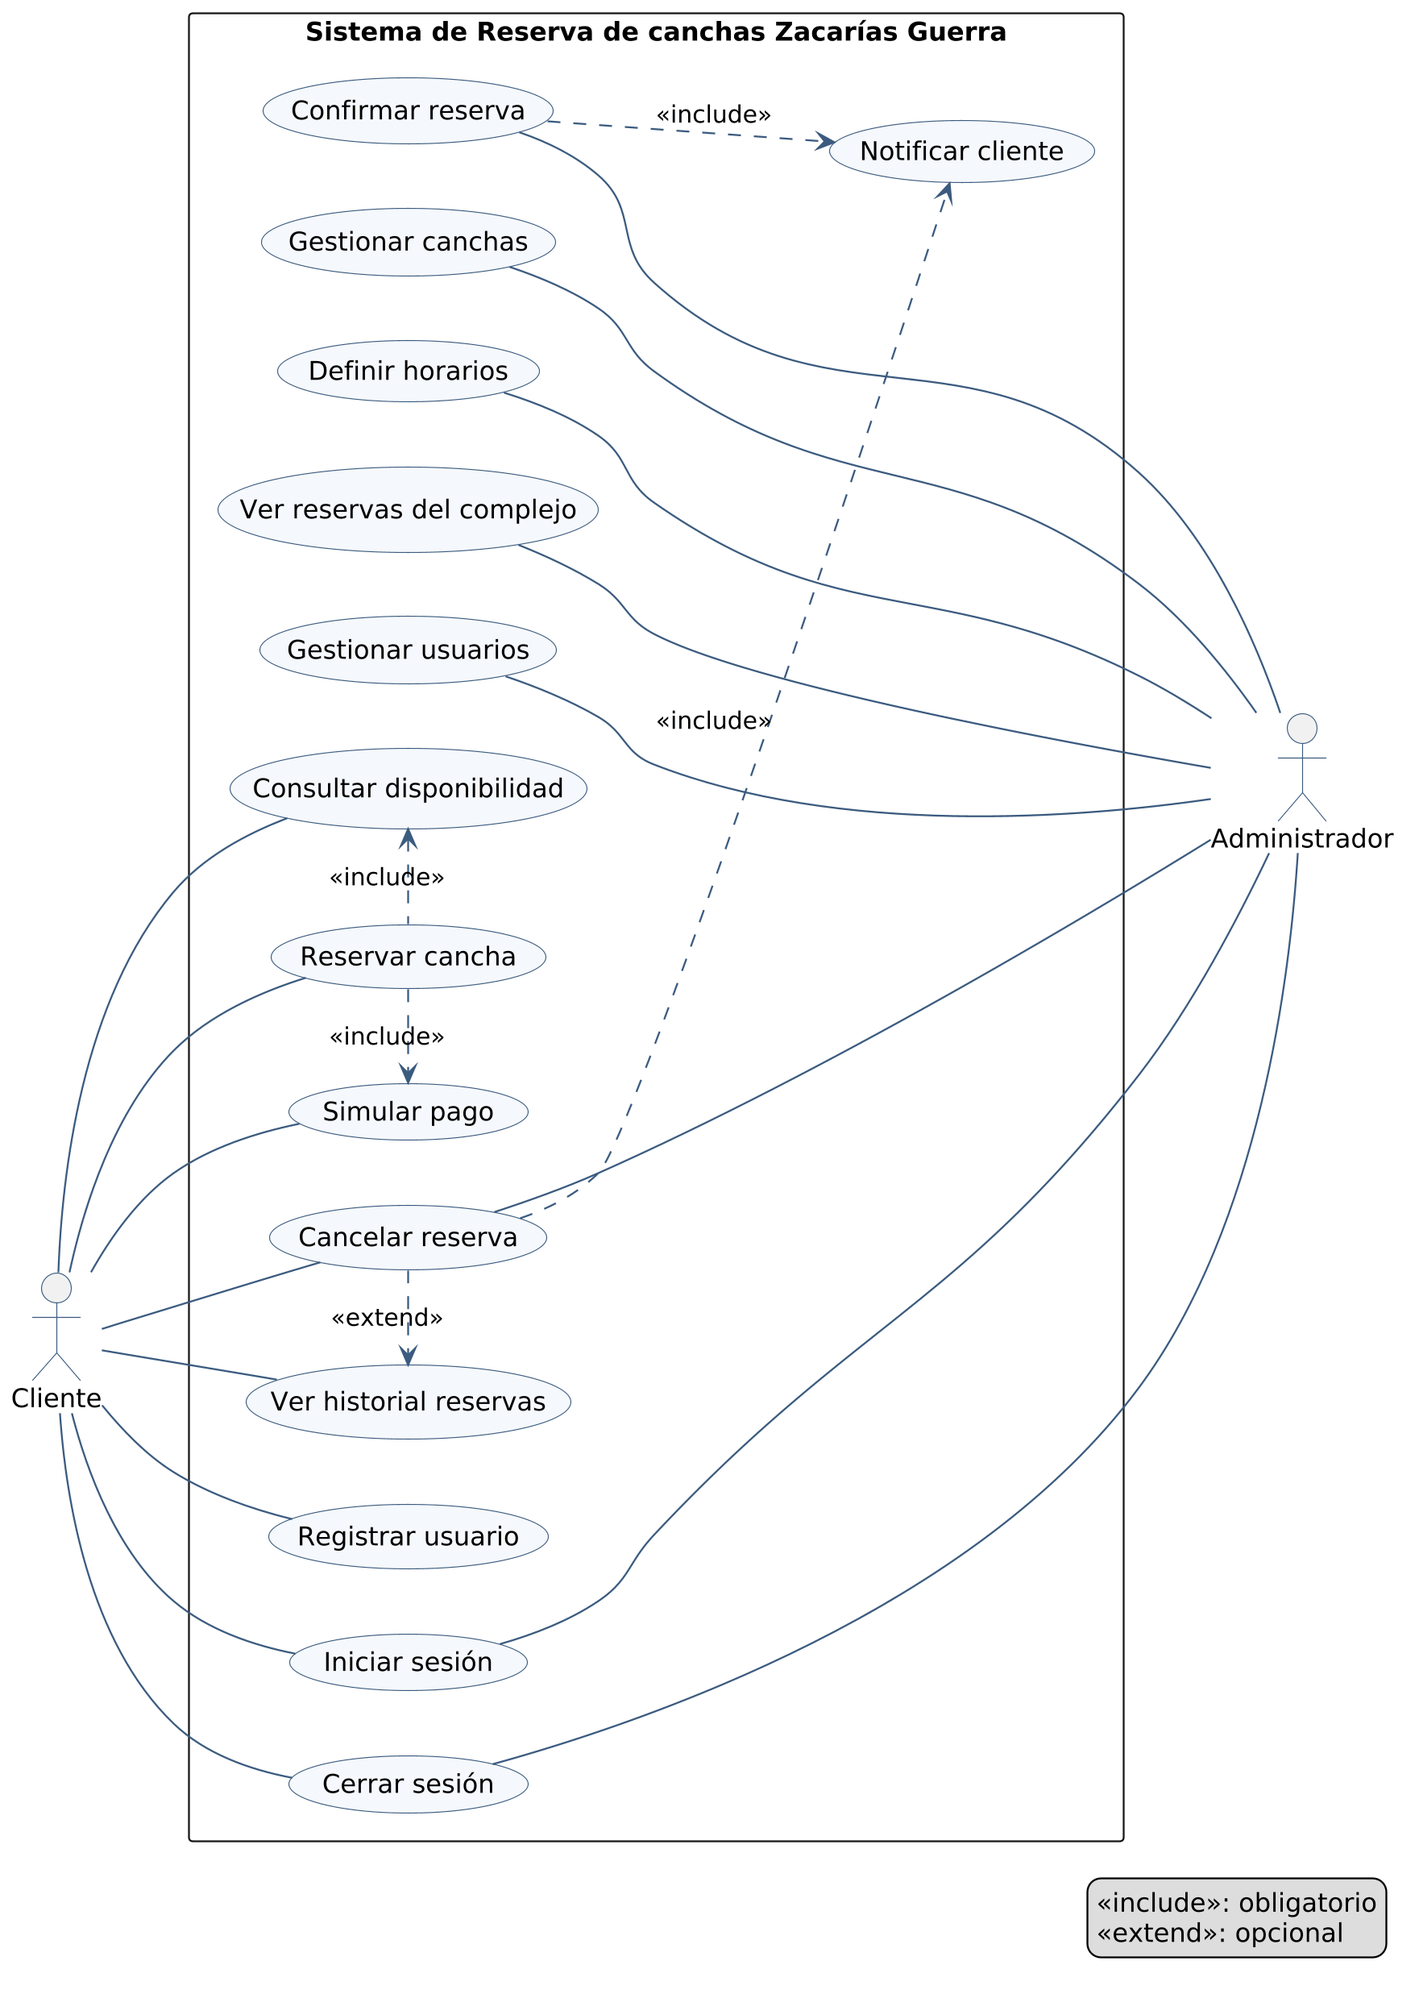
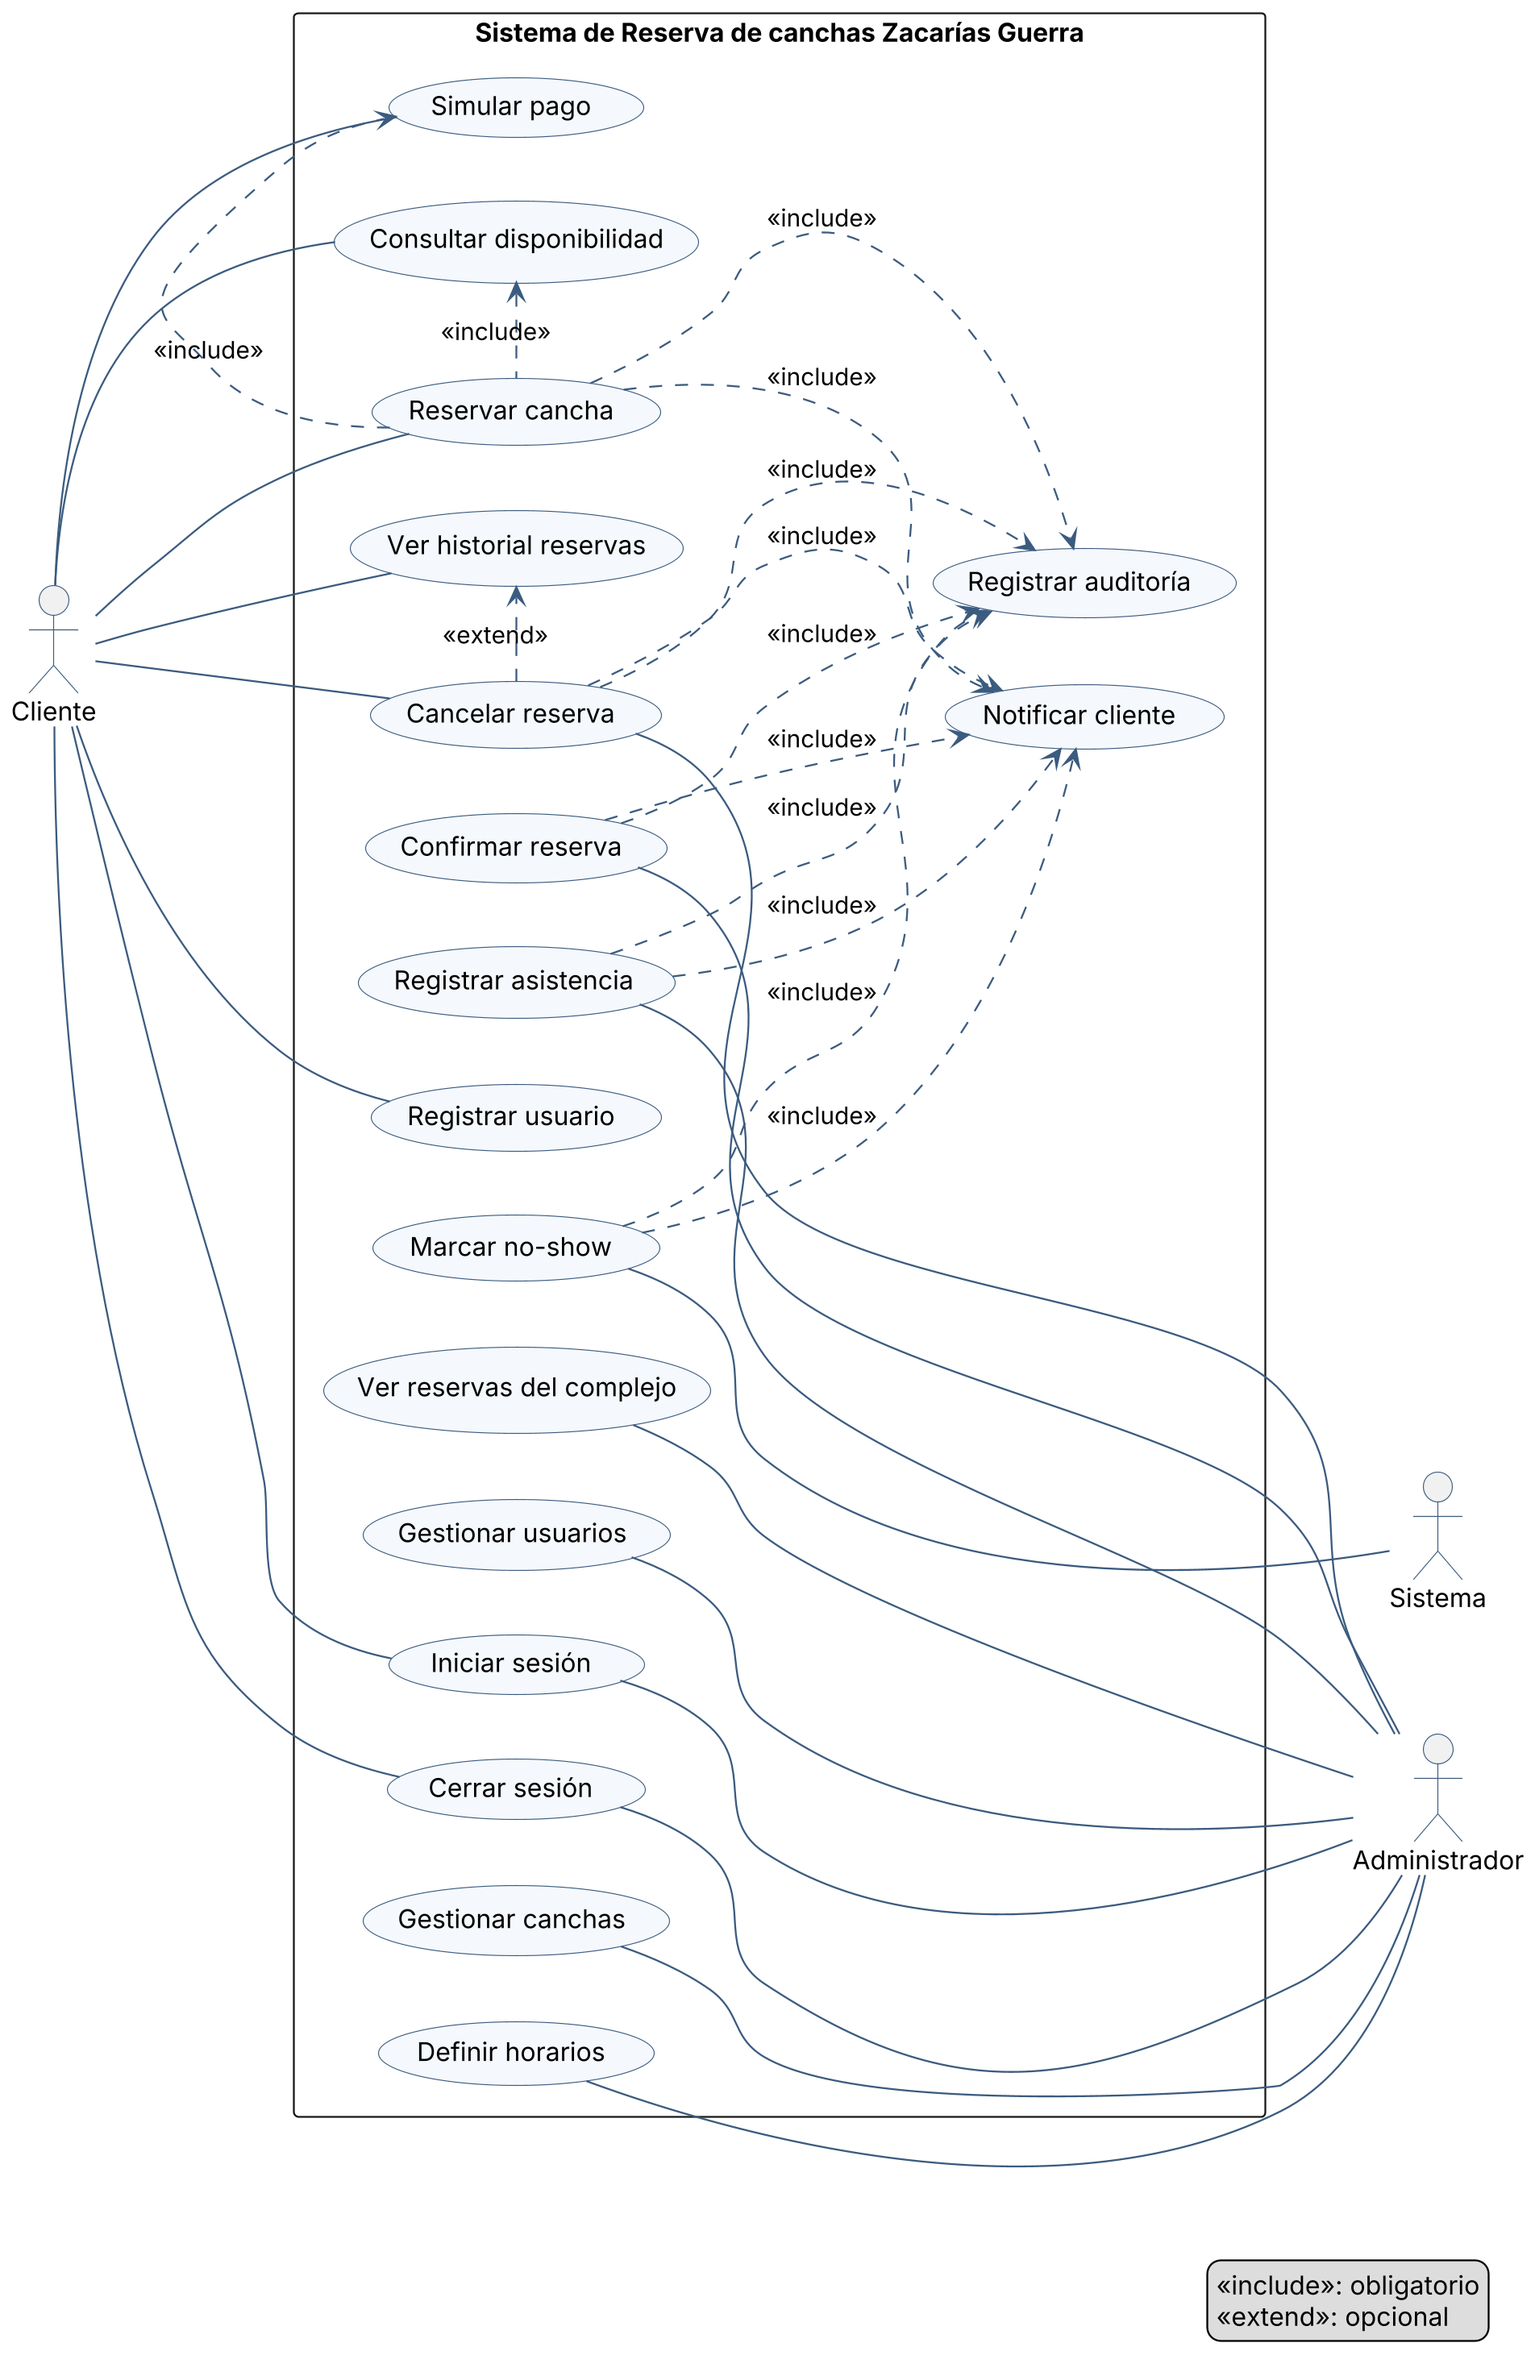
docs(modelos): aplicar las ampliaciones 1 a 4 al diagrama general de casos de uso

diff --git a/docs/trazabilidad.md b/docs/trazabilidad.md
@@ -140,7 +140,7 @@ Las rutas de archivo son relativas a la raíz del repositorio. Los endpoints se 
 | CU-GEN-09.b | Cancelar reserva: pantalla del administrador | E1 Cap. I | Ver RF11.d | cumplido | |
 | CU-GEN-10.a | Confirmar reserva (API) | E1 Cap. I | `PATCH /api/reservas/:id/confirmar`; PR #57 (ver RF11.a) | cumplido | |
 | CU-GEN-10.b | Confirmar reserva (pantalla) | E1 Cap. I | Ver RF11.c | cumplido | |
-| CU-GEN-11.a | Notificar cliente: al crear | E1 Cap. I | Ver RF12.a | cumplido | En el diagrama lo incluyen Cancelar y Confirmar |
+| CU-GEN-11.a | Notificar cliente: al crear | E1 Cap. I | Ver RF12.a | cumplido | En el diagrama lo incluyen Reservar, Confirmar, Cancelar, Registrar asistencia y Marcar no-show |
 | CU-GEN-11.b | Notificar cliente: al confirmar | E1 Cap. I | Ver RF12.b | cumplido | |
 | CU-GEN-11.c | Notificar cliente: al cancelar, y su pantalla | E1 Cap. I | Ver RF12.d y RF12.c | cumplido | |
 | CU-GEN-12.a | Gestionar canchas: registrar, editar y alta | E1 Cap. I | Ver RF08.a | cumplido | |
@@ -203,7 +203,7 @@ La columna "Corrección" remite a la sección 4: 4.1 son correcciones y 4.2 son 
 
 | ID | Compromiso | Fuente | Dónde se cumple (evidencia) | Estado | Corrección | Justificación / nota |
 | --- | --- | --- | --- | --- | --- | --- |
-| MOD-CU-GEN | Diagrama general de casos de uso | E1 Cap. I | `docs/modelos/casos-de-uso.md` (sección 1), `casos-de-uso.puml` e `img/casos-de-uso.png` | cumplido | 4.1 y 4.2 | Con las correcciones de 4.1. Las ampliaciones de 4.2 no se aplican (#35, comentario del 11/11) |
+| MOD-CU-GEN | Diagrama general de casos de uso | E1 Cap. I | `docs/modelos/casos-de-uso.md` (sección 1), `casos-de-uso.puml` e `img/casos-de-uso.png` | cumplido | 4.1 y 4.2 | Con las correcciones de 4.1 y las ampliaciones 1 a 4 de 4.2 (#35, comentario del 12/11) |
 | MOD-CU-01 | Ficha y diagrama de CU-01 | E1 Cap. I | `docs/modelos/casos-de-uso.md` (sección 2, con la ficha), `cu-01-reservar-cancha.puml` e `img/cu-01-reservar-cancha.png` | cumplido | 4.1 | |
 | MOD-CU-02 | Ficha y diagrama de CU-02 | E1 Cap. I | `docs/modelos/casos-de-uso.md` (sección 3), `cu-02-cancelar-reserva.puml` e `img/cu-02-cancelar-reserva.png` | cumplido | 4.1 | La ficha no cambia |
 | MOD-CON.a | Contenido: Usuario abstracto con Cliente y Administrador como subclases | E1 Cap. I | Tabla única `Usuario` con `Rol` (`CK_Usuario_Rol`) y `Telefono`; PR #30 | modificado | 4.1 | Herencia en una sola tabla (Guía §1, Usuarios). `Administrador.cargo` no figura en el esquema acordado (contrato técnico, Esquema) |
@@ -311,7 +311,7 @@ La columna "Corrección" remite a la sección 4: 4.1 son correcciones y 4.2 son 
 
 ## 4. Modelos: qué hay que corregir
 
-Las correcciones de 4.1 están aplicadas en `docs/modelos/`: la columna "Resuelta en" indica el archivo de cada una. Las ampliaciones de 4.2 no se aplican.
+Las correcciones de 4.1 están aplicadas en `docs/modelos/`: la columna "Resuelta en" indica el archivo de cada una. De las ampliaciones de 4.2 se aplican la 1 a la 4.
 
 ### 4.1 Correcciones
 
@@ -336,16 +336,16 @@ En estos puntos el diagrama contradice lo implementado o lo decidido.
 
 ### 4.2 Ampliaciones
 
-Agregan elementos que el modelo no tenía. No se aplican, por decisión del responsable del 11/11 (#35): el alcance de #49 se limita a las correcciones de 4.1. Esa decisión deja sin efecto la aprobación de las ampliaciones 1 a 5 del 06/11. La tabla queda como registro.
+Agregan elementos que el modelo no tenía. El 06/11 se aprobaron la 1 a la 5 y la 6 quedó fuera. El 11/11 se descartaron todas para limitar #49 a las correcciones de 4.1, y el 12/11 se volvieron a incluir la 1 a la 4, porque sin ellas el diagrama general no muestra el registro de asistencia ni el no-show, que el sistema implementa (#35, comentario del 12/11).
 
-| Modelo | Ampliación | Motivo |
-| --- | --- | --- |
-| Casos de uso general | Agregar Registrar asistencia (Administrador) | Estado `COMPLETADA` (Guía §1); #17 |
-| Casos de uso general | Agregar el no-show automático (Sistema) | CU-02 A1; Guía §1 (No-show); #17 |
-| Casos de uso general | Agregar Registrar auditoría, incluido por Cancelar reserva y los demás cambios de estado | Ficha de CU-02; RF13 |
-| Casos de uso general | Agregar Notificar cliente como inclusión de Reservar cancha | PR #53 notifica al crear; RF12 |
-| Procesos: estructura | Agregar las clases de proceso de confirmar, registrar asistencia y no-show | #17; tabla de transiciones de `reglas.js` |
-| Procesos: flujo de reservar | Indicar que pago, auditoría y notificación ocurren en una sola transacción | DES-21 y DES-22. Opcional |
+| Modelo | Ampliación | Motivo | Resuelta en |
+| --- | --- | --- | --- |
+| Casos de uso general | Agregar Registrar asistencia (Administrador) | Estado `COMPLETADA` (Guía §1); #17 | `docs/modelos/casos-de-uso.md`, sección 1 |
+| Casos de uso general | Agregar el no-show automático (Sistema) | CU-02 A1; Guía §1 (No-show); #17 | `docs/modelos/casos-de-uso.md`, sección 1: Marcar no-show, con el actor Sistema |
+| Casos de uso general | Agregar Registrar auditoría, incluido por Cancelar reserva y los demás cambios de estado | Ficha de CU-02; RF13 | `docs/modelos/casos-de-uso.md`, sección 1 |
+| Casos de uso general | Agregar Notificar cliente como inclusión de Reservar cancha | PR #53 notifica al crear; RF12 | `docs/modelos/casos-de-uso.md`, sección 1 |
+| Procesos: estructura | Agregar las clases de proceso de confirmar, registrar asistencia y no-show | #17; tabla de transiciones de `reglas.js` | No se aplica: `docs/modelos/` no tiene un diagrama de estructura de procesos. Las tres transiciones están en `docs/modelos/estados-reserva.md` |
+| Procesos: flujo de reservar | Indicar que pago, auditoría y notificación ocurren en una sola transacción | DES-21 y DES-22. Opcional | No se aplica (decisión del 06/11) |
 
 ## 5. Compromisos sin issue (huecos del plan)
 

diff --git a/docs/modelos/casos-de-uso.md b/docs/modelos/casos-de-uso.md
@@ -1,6 +1,6 @@
 # Modelo de casos de uso
 
-Diagrama general de casos de uso, ficha y diagrama de CU-01 y diagrama de CU-02, corregidos. Reemplazan a los del Entregable 1 (E1 Cap. I, Modelo de Casos de Uso) y aplican las correcciones de casos de uso de la sección 4.1 de `docs/trazabilidad.md` (filas MOD-CU-GEN, MOD-CU-01 y MOD-CU-02). Responde al issue #49.
+Diagrama general de casos de uso, ficha y diagrama de CU-01 y diagrama de CU-02, corregidos. Reemplazan a los del Entregable 1 (E1 Cap. I, Modelo de Casos de Uso) y aplican las correcciones de casos de uso de la sección 4.1 de `docs/trazabilidad.md` (filas MOD-CU-GEN, MOD-CU-01 y MOD-CU-02), y las ampliaciones 1 a 4 de la sección 4.2 en el diagrama general. Responde al issue #49.
 
 Lo que no figura en las tablas de cambios se dibuja igual que en el Entregable 1.
 
@@ -10,9 +10,10 @@ Lo que no figura en las tablas de cambios se dibuja igual que en el Entregable 1
 
 Fuente PlantUML: [`casos-de-uso.puml`](casos-de-uso.puml).
 
-- **Actores:** Cliente y Administrador.
-- **Casos de uso (14):** Consultar disponibilidad, Reservar cancha, Simular pago, Ver historial reservas, Registrar usuario, Cancelar reserva, Confirmar reserva, Gestionar canchas, Definir horarios, Ver reservas del complejo, Iniciar sesión, Cerrar sesión, Gestionar usuarios y Notificar cliente. Son las filas CU-GEN-01 a CU-GEN-14 de la matriz.
-- **Relaciones:** Reservar cancha «include» Consultar disponibilidad y Simular pago; Cancelar reserva «extend» Ver historial reservas; Cancelar reserva y Confirmar reserva «include» Notificar cliente. «include» es obligatorio y «extend» es opcional.
+- **Actores:** Cliente, Administrador y Sistema. Sistema es el actor del no-show automático: nadie lo ejecuta, el sistema marca las reservas vencidas.
+- **Casos de uso (17):** los 14 del Entregable 1 (Consultar disponibilidad, Reservar cancha, Simular pago, Ver historial reservas, Registrar usuario, Cancelar reserva, Confirmar reserva, Gestionar canchas, Definir horarios, Ver reservas del complejo, Iniciar sesión, Cerrar sesión, Gestionar usuarios y Notificar cliente), que son las filas CU-GEN-01 a CU-GEN-14 de la matriz, más Registrar asistencia, Marcar no-show y Registrar auditoría (ampliaciones de 4.2).
+- **Relaciones:** Reservar cancha «include» Consultar disponibilidad y Simular pago; Cancelar reserva «extend» Ver historial reservas. Reservar cancha, Confirmar reserva, Cancelar reserva, Registrar asistencia y Marcar no-show «include» Notificar cliente y Registrar auditoría. «include» es obligatorio y «extend» es opcional.
+- **Auditoría de la gestión:** Gestionar canchas, Definir horarios y Gestionar usuarios también registran auditoría (RF13). No se dibuja esa inclusión para no recargar el diagrama.
 
 ### Cambios respecto del Entregable 1
 
@@ -20,6 +21,10 @@ Fuente PlantUML: [`casos-de-uso.puml`](casos-de-uso.puml).
 | --- | --- | --- |
 | Simular pago pasa de «extend» a «include» de Reservar cancha | CU-GEN-03 | Reservar cancha «include» Simular pago: el pago es obligatorio e inmediato |
 | Quitar la asociación de Registrar usuario con el Administrador | CU-GEN-07.a | Registrar usuario solo se asocia con el Cliente: el registro público crea solo clientes |
+| Ampliación 1: agregar Registrar asistencia (Administrador) | 4.2 | Caso nuevo asociado al Administrador |
+| Ampliación 2: agregar el no-show automático | 4.2 | Caso Marcar no-show, asociado al actor Sistema |
+| Ampliación 3: agregar Registrar auditoría, incluido por los cambios de estado | 4.2 | Caso nuevo, incluido por Reservar cancha, Confirmar reserva, Cancelar reserva, Registrar asistencia y Marcar no-show |
+| Ampliación 4: Notificar cliente incluido por Reservar cancha | 4.2 | Reservar cancha «include» Notificar cliente. Por coherencia con el código, también lo incluyen Registrar asistencia y Marcar no-show: toda transición notifica al cliente |
 
 ## 2. CU-01 (Sistema): Reservar cancha
 
